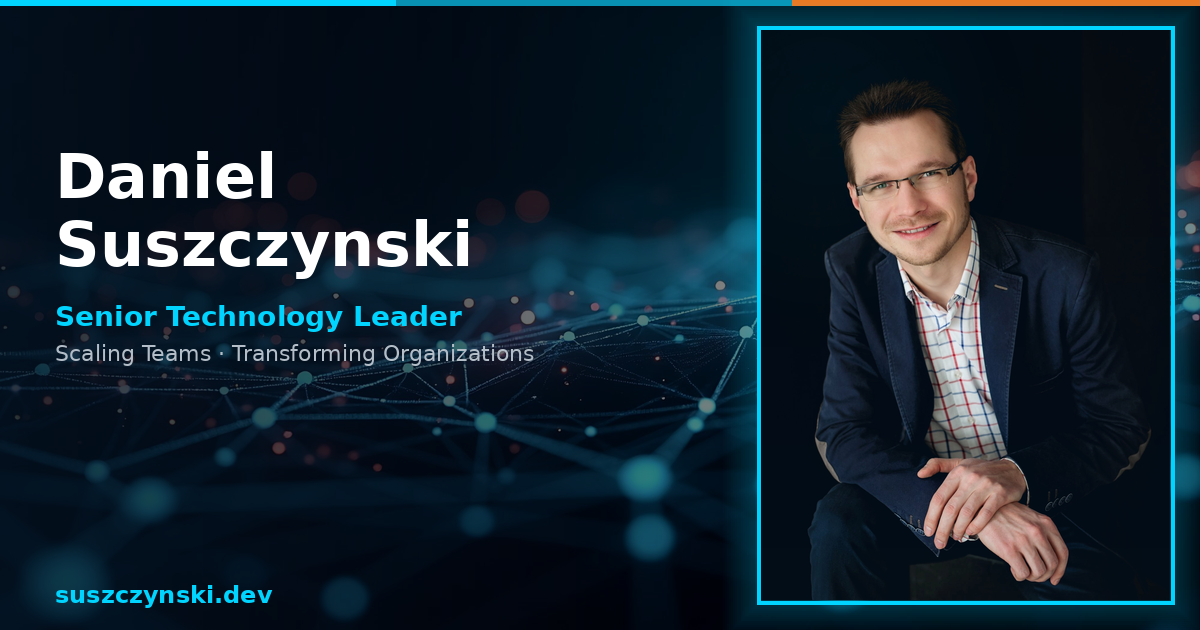
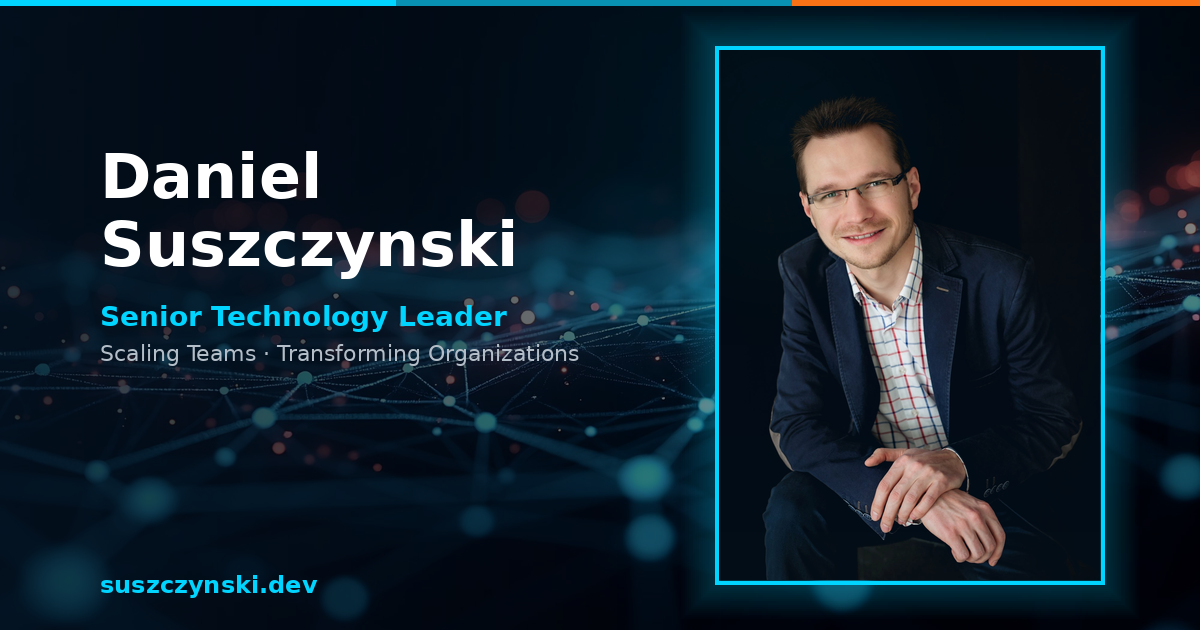
OG image improvement.

diff --git a/_site/case-studies/fincompare-transformation/index.html b/_site/case-studies/fincompare-transformation/index.html
@@ -23,7 +23,7 @@
 <meta property="og:image:width" content="1200">
 <meta property="og:image:height" content="630">
 <meta property="og:site_name" content="Daniel Suszczynski">
-<meta property="article:published_time" content="2026-01-28T16:00:10-06:00">
+<meta property="article:published_time" content="2026-01-28T16:06:38-06:00">
 
 <!-- Twitter Card -->
 <meta name="twitter:card" content="summary_large_image">
